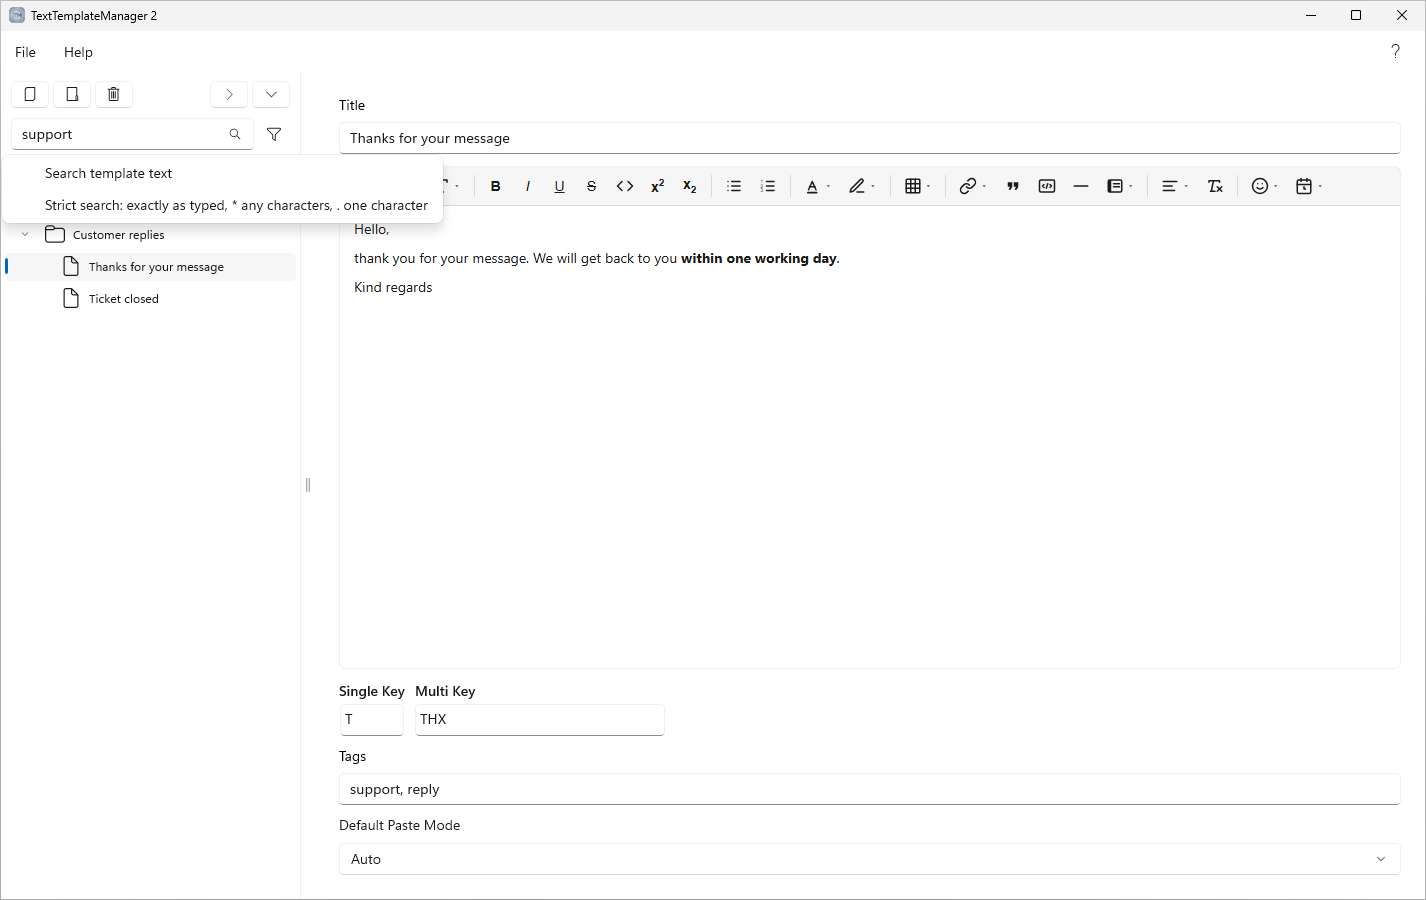
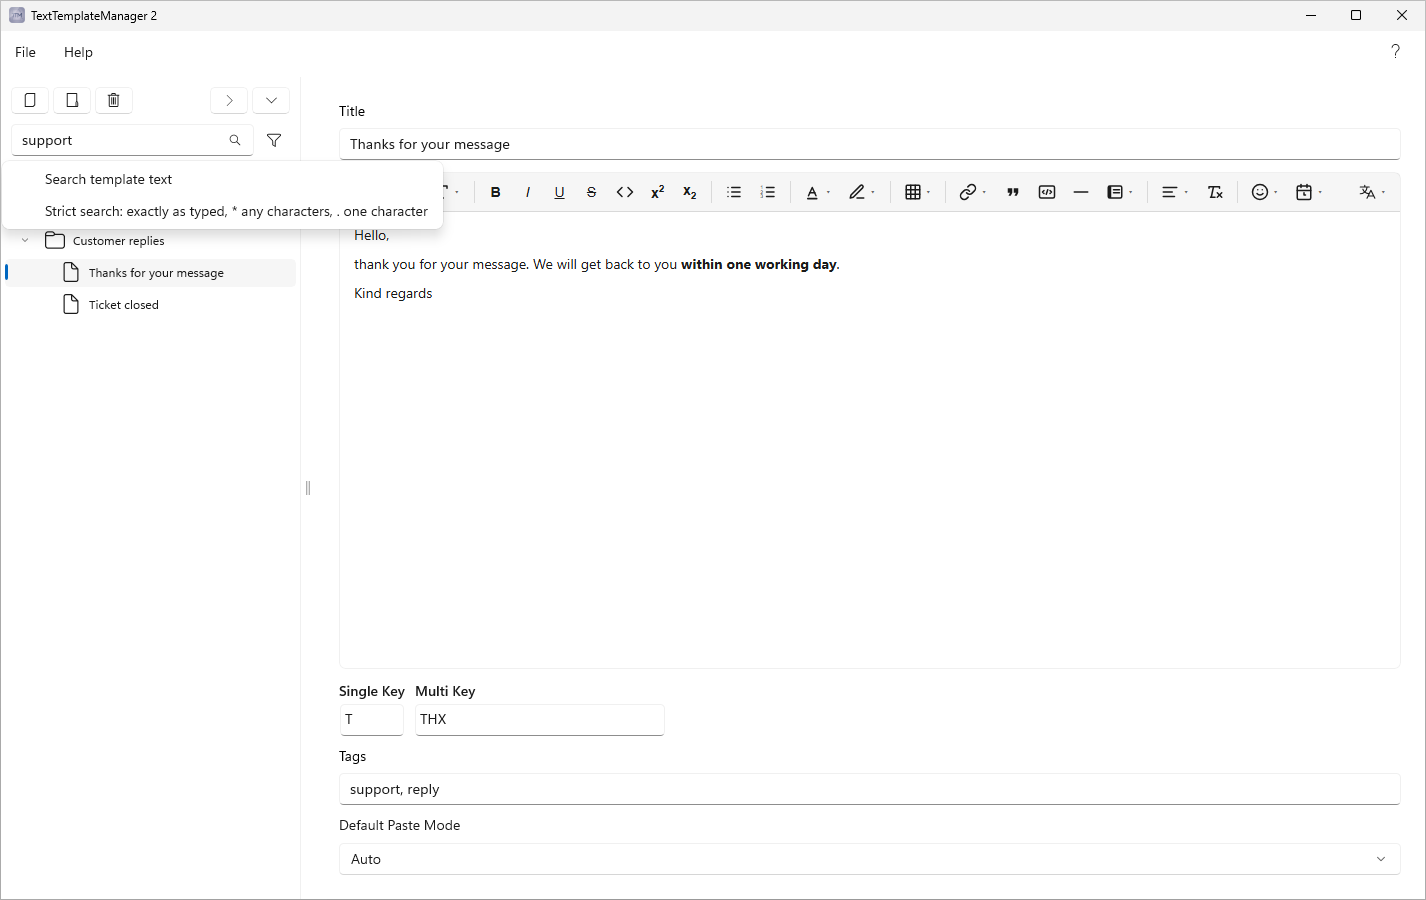
manual: screenshots retaken with 2.6.1 (Translate button, Settings pages, tour, update notice, whats new)

diff --git a/docs/user/Manual.md b/docs/user/Manual.md
@@ -312,9 +312,9 @@ If TextTemplateManager 1 was set up on this PC, both switches take over its choi
 
 - **Hide cross-area shortcut warnings** — suppress the dismissible note shown when the same shortcut is used in more than one area (local and synchronized folders). Off by default; blocking same-area conflicts are always shown. See *Keyboard shortcuts and conflicts*.
 
-![Settings ▸ General: the Quick Paste shortcut, the default paste mode for new templates, startup, Autosave and the start of Updates.](../../src/TextTemplateManager/Assets/ManualImages/TTM_GeneralSettings1.png)
+![Settings ▸ General: the app language, the Quick Paste shortcut, the default paste mode for new templates, startup and the start of Editing.](../../src/TextTemplateManager/Assets/ManualImages/TTM_GeneralSettings1.png)
 
-![Settings ▸ General, scrolled down: Updates with the version, what the updater is doing, Check for updates, the switches for automatic updates and idle install, then Other.](../../src/TextTemplateManager/Assets/ManualImages/TTM_GeneralSettings2.png)
+![Settings ▸ General, scrolled down: Autosave, Updates with the version, what the updater is doing, Check for updates, the switches for automatic updates and idle install, then Other.](../../src/TextTemplateManager/Assets/ManualImages/TTM_GeneralSettings2.png)
 
 ### Integrations
 
@@ -420,7 +420,7 @@ is already running.)
 
 Here you download the languages for the editor's **Translate** button (see *Translating a template*). They are the Firefox Translations language models from Mozilla, downloaded from Mozilla's servers; the translation itself runs on this PC, and translating works without an internet connection once a language is installed. The page is marked experimental, with a reminder to check every translation.
 
-![Settings ▸ Translation with German installed and the other languages from Mozilla's list.](../../src/TextTemplateManager/Assets/ManualImages/TTM_Settings_Translation.png)
+![Settings ▸ Translation: the daily check for newer language versions, German installed and up to date, and the other languages from Mozilla's list.](../../src/TextTemplateManager/Assets/ManualImages/TTM_Settings_Translation.png)
 
 Each row is a language with its download size and the space it takes on disk, or **Installed** and the space it uses. **Download** installs it, in both directions (to and from English) where Mozilla offers both; a few languages exist in one direction only, which the row says. While it downloads, **Cancel** stops it, and the download keeps running if you leave Settings. Quitting the app while a language downloads asks first: **Wait, then exit** finishes the download and shows how far it is (that dialog can still stop it), **Stop and exit** stops it, **Cancel** keeps the app running. Every installed language has **Update**, which you can click when Mozilla has published a newer version (the row then says **update available**, otherwise **up to date**), and **Remove** deletes a language. **Search languages** filters the list. Every downloaded file is checked against Mozilla's checksums before it's used.
 
